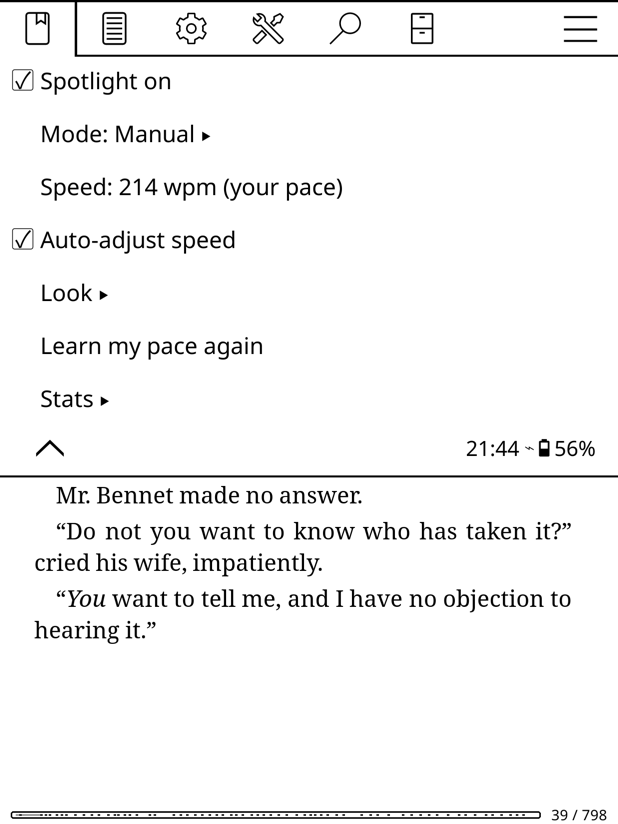
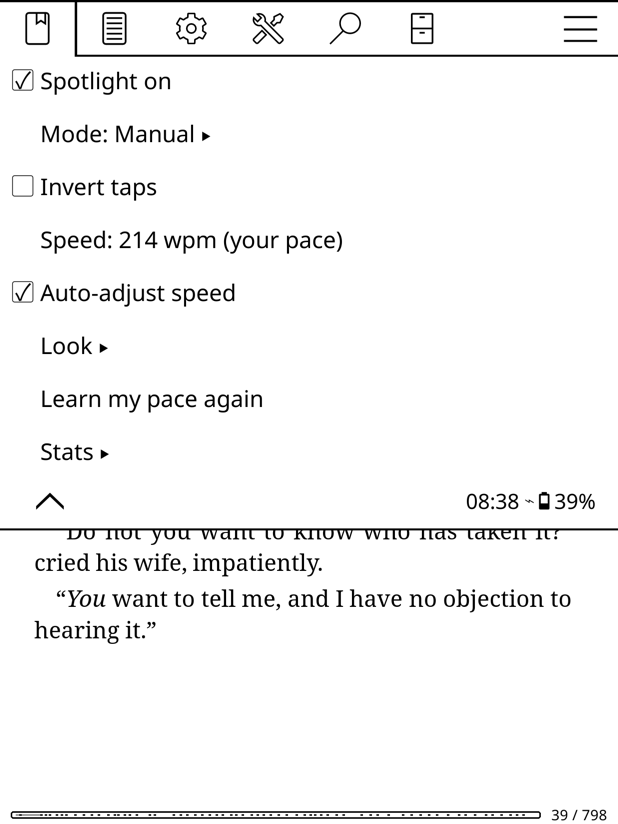
Spotlight 0.5.1: Invert taps
New setting, Spotlight → Invert taps: the tap zones are mirrored, so the
left three quarters of the screen go forward and the right quarter goes
back (the same mirror KOReader uses for its own inverted page turns). It
applies to Auto's skip-ahead and back too. Spotlight also inverts its taps
when KOReader's own "Invert page turn taps and swipes" is on, as for
right-to-left books, which removes that known limit.

Tests: desktop (Manual, Auto, KOReader's inversion, mirrored UI) and
end-to-end in KOReader. README and menu screenshot updated.

diff --git a/README.md b/README.md
@@ -119,6 +119,8 @@ You move the light.
 |---|---|
 | Tap the right three quarters of the screen | Next sentence |
 | Tap the left quarter | Previous sentence |
+| *With Invert taps on:* tap the left three quarters | Next sentence |
+| *With Invert taps on:* tap the right quarter | Previous sentence |
 | Forward or back page key | Next or previous sentence |
 | Tap a link | Follows the link, as usual |
 | Hold | KOReader's usual dictionary and highlighting |
@@ -130,6 +132,12 @@ You move the light.
   always do.
 - **Sentences across a page break.** The part you can see is lit first. The
   next tap turns the page and lights the rest. Going back works the same way.
+- **Invert taps.** If reaching across the screen is a stretch, turn on
+  Spotlight → **Invert taps**. The zones are mirrored: the left three quarters
+  go forward and the right quarter goes back, so "next" sits under a
+  left-hand thumb. It applies in Auto mode too (skip ahead and back).
+  Spotlight also inverts its taps by itself when KOReader's own "Invert page
+  turn taps and swipes" is on, as it is for right-to-left books.
 - **Per book.** Spotlight remembers the sentence you were on and lights it
   again when you open the book.
 - **Quietly learning.** Every sentence is timed in the background, to learn
@@ -145,6 +153,7 @@ The light moves on its own. Spotlight → **Mode** → **Auto**.
 | Let go | Carries on: the time that was left on the sentence, plus 0.5 s |
 | Quick tap right (or forward key) | Skips ahead one sentence now |
 | Quick tap left (or back key) | Goes back one sentence and carries on from there |
+| *With Invert taps on:* the sides swap | Left skips ahead, the right quarter goes back |
 | Swipe or other page turn | Carries on from the first sentence on the new page |
 | Open a menu | The light waits until it closes |
 
@@ -325,6 +334,7 @@ one, so the file can be imported elsewhere as is. Times are local time.
 |---|---|
 | Spotlight on | Turns Spotlight on or off, for all books |
 | Mode | Manual or Auto (shows learning progress until Auto is ready) |
+| Invert taps | Forward on the left three quarters, back on the right quarter |
 | Speed | Opens the speed panel; shows whose pace applies |
 | Auto-adjust speed | Lets Auto nudge the speed from your holds, backs and skips |
 | Look | Style, band darkness, bar width, night look |
@@ -415,7 +425,7 @@ split by a page break is known as a whole on both pages.
 ## Troubleshooting
 
 Each time a book opens, Spotlight writes a line with its version to the log,
-for example `Spotlight 0.5.0 (M5) : ready, turned off`.
+for example `Spotlight 0.5.1 : ready, turned off`.
 
 - **Kindle:** `koreader/crash.log` on the USB storage.
 - **Mac:** `crash.log` in `~/Library/Application Support/koreader/`.
@@ -437,7 +447,6 @@ a page turn.
   really ends there.
 - While Spotlight is on, tapping a saved highlight moves the light instead of
   opening the highlight's menu. Turn Spotlight off to open it.
-- Right-to-left books: the back zone is always on the left.
 - In illustrated editions, a picture in the middle of a paragraph splits the
   sentence around it, and captions are lit as sentences.
 - Sentences longer than about 200 words that run over a page break may be
